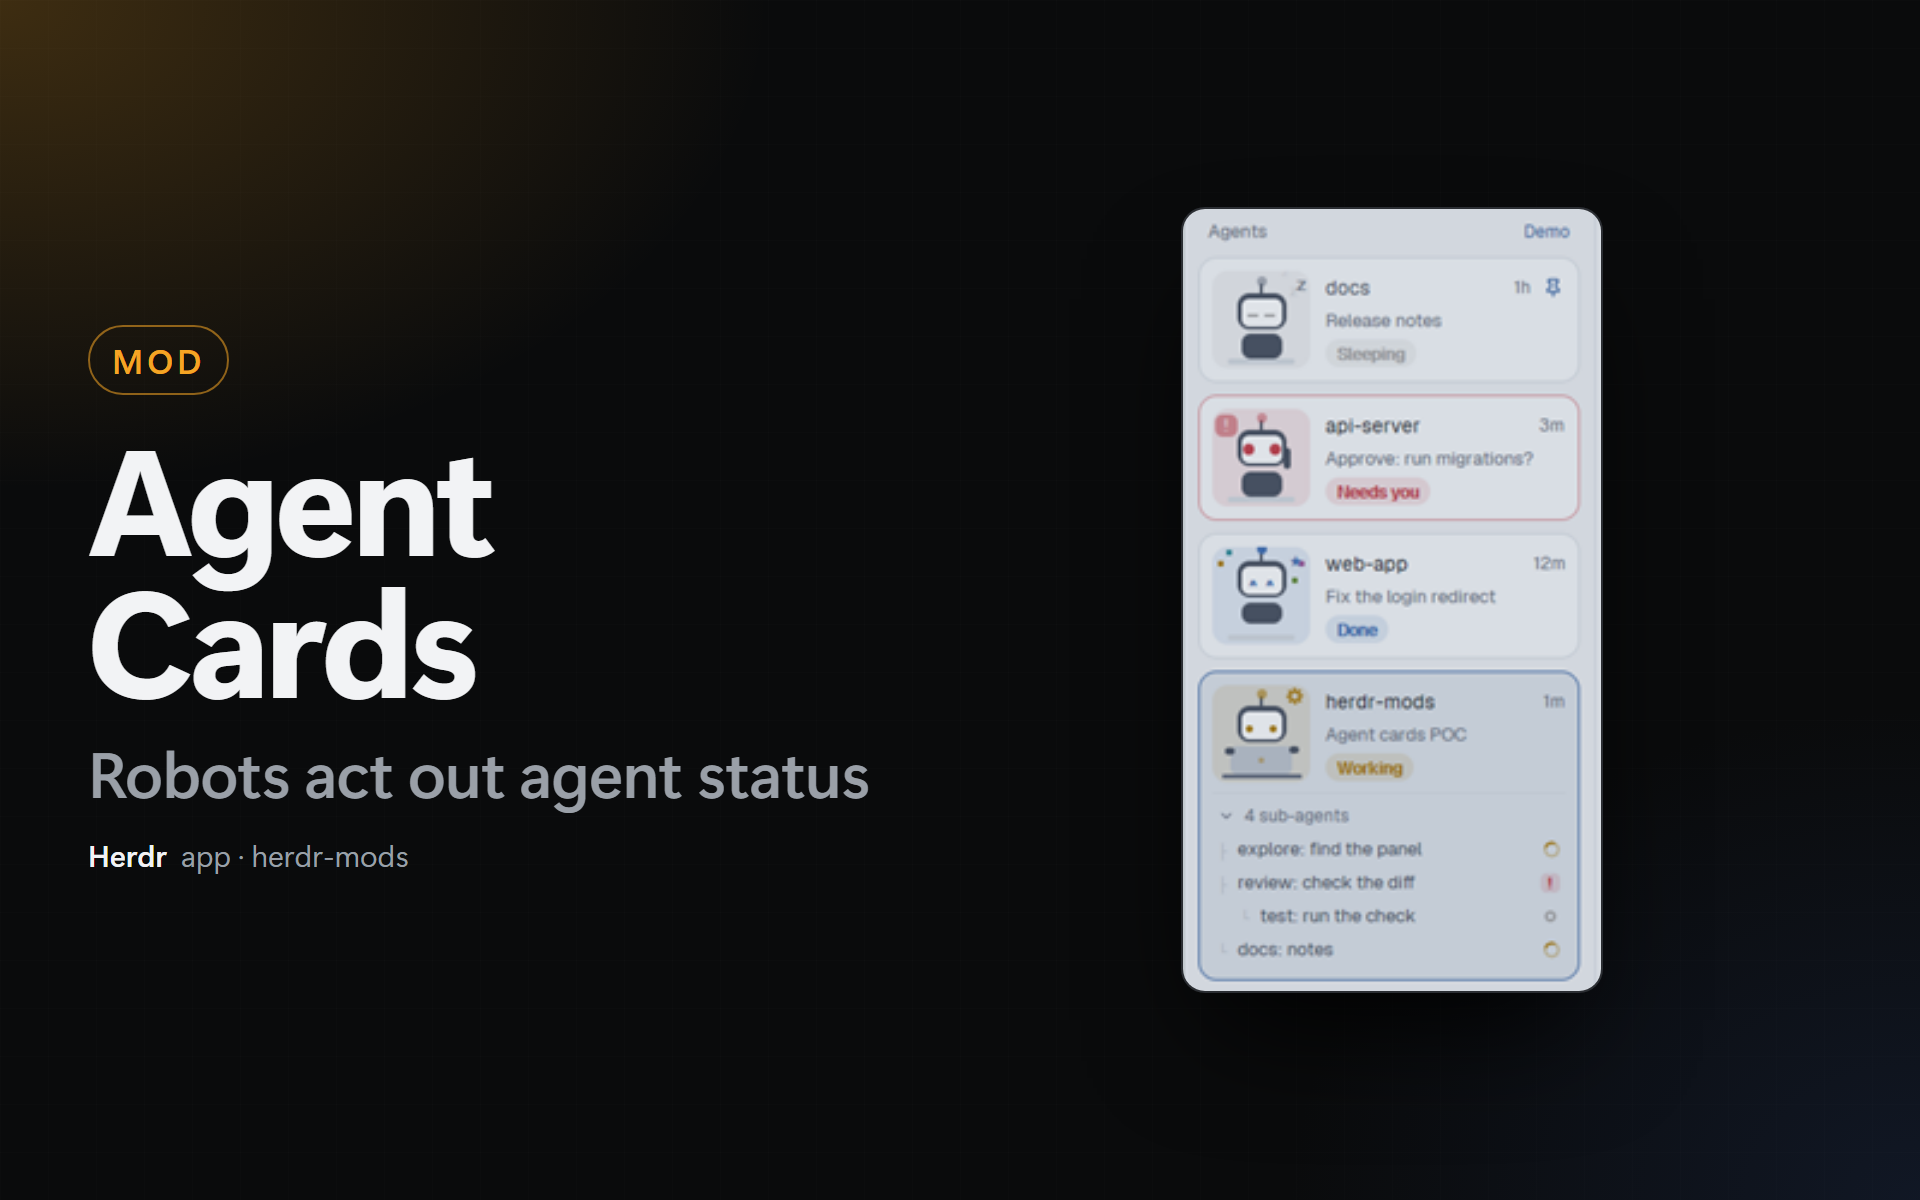
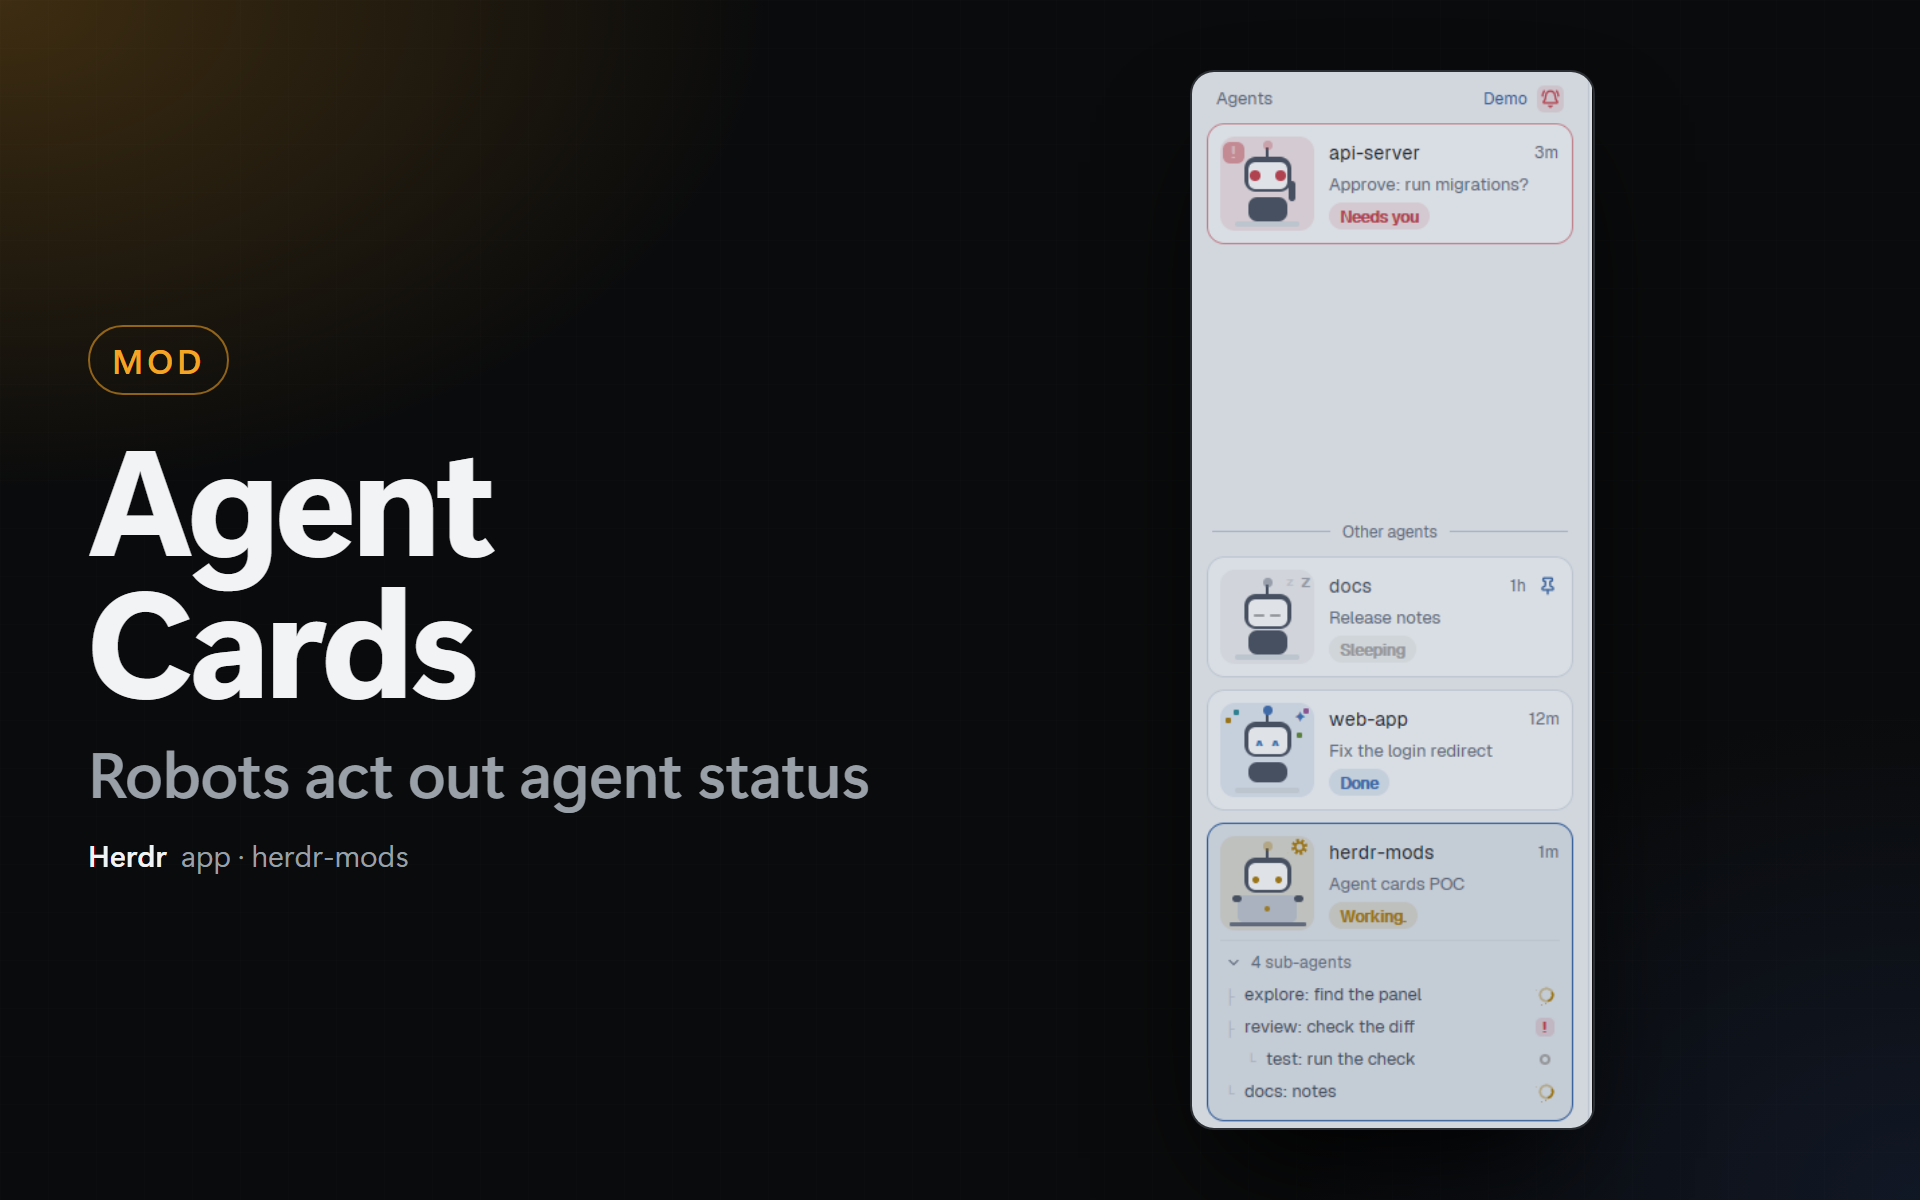
feat(agent-cards-app): add a Needs you first switch
A bell in the header of the agents list puts the agents that need you at
the top and the other cards at the bottom of the panel, under an
"Other agents" line. The switch is also a mods-hub setting.

Claude-Session: https://claude.ai/code/session_012VwvurNXmKdBMQdMKkYkgk

Changed region(s): [[0.5938, 0.0308, 0.8438, 0.9558]]

diff --git a/agent-cards-app/mods/agent-cards/main.js b/agent-cards-app/mods/agent-cards/main.js
@@ -4,8 +4,13 @@
 
 import { View, div, image, svg } from "gpui-kit";
 import { v_flex, h_flex } from "gpui-base";
-import { agents, terminals, panes, spaces, run, theme, layout, setAgentOrder, nextCommand } from "herdr";
+import { agents, terminals, panes, spaces, run, theme, layout, setAgentOrder, nextCommand, shared, setShared } from "herdr";
 import { stage } from "./robot.js";
+
+// The mods-hub setting "Needs you first": the agents that need you go to the top,
+// and the other cards go to the bottom of the panel, under a line.
+const KEY_NEEDS_YOU = "agent-cards.needsYouFirst";
+const needsYouFirst = () => shared(KEY_NEEDS_YOU) === true;
 
 function find(node, id) {
   if (node?.id === id) return node;
@@ -74,10 +79,12 @@ export default class AgentCards extends View {
     this.hovered = null;
     cx.timer.every(30000, (cx) => cx.notify());
     // `herdr-app do agent-cards.demo` shows one example card for each status.
+    // `agent-cards.needs-you` turns "Needs you first" on or off.
     cx.spawn(async (cx) => {
       for (;;) {
         const c = await nextCommand();
         if (c === "demo") this.demo = !this.demo;
+        if (c === "needs-you") setShared(KEY_NEEDS_YOU, !needsYouFirst());
         cx.notify();
       }
     });
@@ -100,6 +107,25 @@ export default class AgentCards extends View {
         : [];
       return { a, info: { name: space, detail: tab }, subs };
     }).sort((x, y) => (y.a.pinned ? 1 : 0) - (x.a.pinned ? 1 : 0));
+  }
+
+  // The header button that turns "Needs you first" on or off.
+  needsYouButton(t, on) {
+    return div()
+      .id("ac-needs-you")
+      .flex_none()
+      .p(3)
+      .rounded(5)
+      .text_color(on ? t.blocked : t.dim)
+      .when(on, (el) => el.bg(t.blocked + "22"))
+      .cursor_pointer()
+      .hover((s) => s.bg(t.hover).text_color(on ? t.blocked : t.foreground))
+      .tooltip(on ? "Needs you first: on. Click to turn off." : "Needs you first: off. Click to put the agents that need you at the top.")
+      .on_click((_e, cx) => {
+        setShared(KEY_NEEDS_YOU, !on);
+        cx.notify();
+      })
+      .child(svg("mods/agent-cards/needs-you.svg").size(13));
   }
 
   // Live sub-agents of `addr`, depth first.
@@ -276,7 +302,9 @@ export default class AgentCards extends View {
     // A card ranks by its most urgent status, its sub-agents included.
     const urgency = new Map(list.map((a) => [a.address, Math.max(RANK[a.status] ?? 0, ...subsOf.get(a.address).map((s) => RANK[s.status] ?? 0))]));
     const since = (a) => this.changed[a.address]?.at ?? 0;
-    list.sort((x, y) => (y.pinned ? 1 : 0) - (x.pinned ? 1 : 0) || urgency.get(y.address) - urgency.get(x.address) || since(y) - since(x) || y.seq - x.seq);
+    const first = needsYouFirst();
+    const top = (a) => (first && a.status === "blocked" ? 1 : 0);
+    list.sort((x, y) => top(y) - top(x) || (y.pinned ? 1 : 0) - (x.pinned ? 1 : 0) || urgency.get(y.address) - urgency.get(x.address) || since(y) - since(x) || y.seq - x.seq);
     setAgentOrder(list.map((a) => a.address));
 
     if (narrow()) {
@@ -293,6 +321,22 @@ export default class AgentCards extends View {
     };
     const busy = list.filter((a) => a.status !== "idle").length;
     const cards = this.demo ? this.demoCards(now) : list.map((a) => ({ a, info: infoOf(a), subs: subsOf.get(a.address) }));
+    const draw = (c) => this.card(t, c.a, c.info, now, c.subs);
+    // "Needs you first": the blocked cards at the top, a space that grows, a line,
+    // and the other cards at the bottom of the panel.
+    const body = !first ? cards.map(draw) : (() => {
+      const needs = cards.filter((c) => c.a.status === "blocked");
+      const rest = cards.filter((c) => c.a.status !== "blocked");
+      return [
+        ...needs.map(draw),
+        div().id("ac-spacer").flex_1(),
+        ...(needs.length && rest.length ? [h_flex().id("ac-divider").flex_none().mx(4).gap(8).items_center()
+          .child(div().flex_1().h(1).bg(t.input))
+          .child(div().flex_none().text_size(10.5).font_medium().text_color(t.dim).child("Other agents"))
+          .child(div().flex_1().h(1).bg(t.input))] : []),
+        ...rest.map(draw),
+      ];
+    })();
 
     return v_flex()
       .size_full()
@@ -303,11 +347,13 @@ export default class AgentCards extends View {
       .text_size(13)
       .child(h_flex().px(16).h(41).pt(14).pb(5).flex_none().items_center().justify_between()
         .child(div().text_size(11.5).font_medium().text_color(t.dim).child("Agents"))
-        .child(div().text_size(11).text_color(this.demo ? t.accent : t.dim)
-          .child(this.demo ? "Demo" : list.length ? `${busy} active · ${list.length}` : "")))
+        .child(h_flex().gap(6).items_center()
+          .child(div().text_size(11).text_color(this.demo ? t.accent : t.dim)
+            .child(this.demo ? "Demo" : list.length ? `${busy} active · ${list.length}` : ""))
+          .child(this.needsYouButton(t, first))))
       .when(cards.length === 0, (el) => el.child(div().px(16).text_size(12).text_color(t.dim)
         .child("No agents yet. Agents show up here when they report their status.")))
       .child(v_flex().id("ac-list").flex_1().min_h(0).px(10).pb(10).gap(8).overflow_y_scrollbar()
-        .children(cards.map((c) => this.card(t, c.a, c.info, now, c.subs))));
+        .children(body));
   }
 }

diff --git a/agent-cards-app/RECIPE.md b/agent-cards-app/RECIPE.md
@@ -6,7 +6,7 @@ A Herdr app mod (`agent-cards`) that draws the agents list of the sidebar as car
 
 ## What you see
 
-The head "Agents" (11.5px, `dim`) with "N active · M" on the right, then one card for each agent, 8px apart, 10px from the sides. A card is 12px radius, 8px padding, `surface` (`selected` when focused), 1px `border` (`accent` when focused, `blocked` at 60% when blocked). On its left, a 64px stage (10px radius, the status color at 12%) with a small robot made of `div`s: antenna with a bulb, a 32 x 24px head (`muted`, 8px radius), a `background` face plate and eyes in the status color, and a body. On its right: the agent's program icon (14px), the space name (medium), the time since the last status change (11px, `dim`); the tab name or the agent's title (11.5px, `dim`); a status pill (18px, the status color at 13%): `Working...` (the dots animate), `Sleeping`, `Needs you`, `Done`. An agent on another machine shows the machine name after the pill.
+The head "Agents" (11.5px, `dim`) with "N active · M" and the bell button on the right, then one card for each agent, 8px apart, 10px from the sides. A card is 12px radius, 8px padding, `surface` (`selected` when focused), 1px `border` (`accent` when focused, `blocked` at 60% when blocked). On its left, a 64px stage (10px radius, the status color at 12%) with a small robot made of `div`s: antenna with a bulb, a 32 x 24px head (`muted`, 8px radius), a `background` face plate and eyes in the status color, and a body. On its right: the agent's program icon (14px), the space name (medium), the time since the last status change (11px, `dim`); the tab name or the agent's title (11.5px, `dim`); a status pill (18px, the status color at 13%): `Working...` (the dots animate), `Sleeping`, `Needs you`, `Done`. An agent on another machine shows the machine name after the pill.
 
 ## How it behaves
 
@@ -15,13 +15,14 @@ The head "Agents" (11.5px, `dim`) with "N active · M" on the right, then one ca
 - **Pin.** With the pointer on a card, a pin button replaces the time; a pinned card always shows it in `accent`. A click runs `terminal.pin {terminal, pinned}`.
 - **Sub-agents.** A card with live sub-agents (`terminals()` with `parent`) shows, under a line, the head "N sub-agents" with a chevron, and one 22px row for each: `├` or `└` (14px more indent for each level), the program icon, the name, and a mark (a turning ring for working, `!` for blocked, a dot or a ring). A click on a row runs `terminal.peek`. A click on the head folds the rows; folded, it shows the mark of the most urgent one.
 - A sidebar narrower than 160px shows a rail: the number and a status dot of each agent.
+- **Needs you first.** `shared("agent-cards.needsYouFirst")` (`true` is on; absent is off), a `bool` in `kit.json`. The bell button of the head (`needs-you.svg`, the Lucide bell-ring, 13px; `blocked` on `blocked` at 13% when on, `dim` when off) flips it, and so does the command `agent-cards.needs-you`. On, the agents whose own status is `blocked` sort first (before pinned ones), and the list is: the blocked cards, a `flex_1` space, the line "Other agents" (a 1px `input` line on each side of 10.5px `dim` text, only when both parts have cards), and the other cards. So the other cards sit at the bottom of the panel and do not move when an agent becomes blocked. When the cards do not fit, the space is 0 and the list scrolls. `setAgentOrder` gets the same order.
 - **On and off.** The mods-hub setting **Agent cards** (`shared("agent-cards.enabled")`, `kit.json` of `agent-cards`; absent means on) chooses the mod of the `agents` block of `main-dock`. The Dock tab bar (`tabs-dock`) reads it and makes the change (see the [Dock recipe](../dock-app/RECIPE.md)). Off shows Herdr's own `agents` list.
 - `herdr-app do agent-cards.demo` shows one example card for each status, with sub-agents and a pin; the next run shows the real agents again.
 
 ## Built from
 
-- `mods/agent-cards/`, `mod.json` `{ "place": "none", "title": "Agent Cards" }`. `main.js` builds the list (`agents()`, `terminals()`, `panes()`, `spaces()`, `layout()`, `setAgentOrder`, `nextCommand`, `run`); the name and detail of a card come from the same rules as Herdr's `agents` mod (the tab name, or the agent's title when nobody named the tab). `robot.js` draws the stage: every part is an `absolute()` box in a `relative()` 64px square, and a moving part is a box whose `top` or `left` is a `loop`. `gear.svg` is the gear (a dashed circle). It uses `mods/workspace-chrome/spinner.svg`, `pin.svg`, `pin-off.svg`, `chevron-down.svg` and `chevron-right.svg`.
-- `kit.json` lists the **Agent cards** setting for the mods-hub.
+- `mods/agent-cards/`, `mod.json` `{ "place": "none", "title": "Agent Cards" }`. `main.js` builds the list (`agents()`, `terminals()`, `panes()`, `spaces()`, `layout()`, `setAgentOrder`, `nextCommand`, `run`); the name and detail of a card come from the same rules as Herdr's `agents` mod (the tab name, or the agent's title when nobody named the tab). `robot.js` draws the stage: every part is an `absolute()` box in a `relative()` 64px square, and a moving part is a box whose `top` or `left` is a `loop`. `gear.svg` is the gear (a dashed circle). `needs-you.svg` is the bell of the head ([Lucide](https://lucide.dev) bell-ring, ISC license). It uses `mods/workspace-chrome/spinner.svg`, `pin.svg`, `pin-off.svg`, `chevron-down.svg` and `chevron-right.svg`.
+- `kit.json` lists the **Agent cards** and **Needs you first** settings for the mods-hub.
 - Commands: `pane.focus`, `terminal.pin`, `terminal.peek`. No program, no file, no network.
 
 ## Watch out
@@ -35,4 +36,5 @@ The head "Agents" (11.5px, `dim`) with "N active · M" on the right, then one ca
 ## Done when
 
 - `herdr-app check ~/.config/herdr-app/mods/agent-cards` passes. `herdr-app do agent-cards.demo` shows 4 cards (Needs you, Done, Working, Sleeping), and `herdr-app shot` shows the robots.
+- With the demo on, `herdr-app do agent-cards.needs-you` moves the "Needs you" card to the top, and the line "Other agents" with the other 3 cards to the bottom. The next run shows the normal order again. Wait 2 s between 2 commands: a command sent at once after another one is lost.
 - With the Dock layout, `herdr-app do tabs-dock.agent-cards` changes the `agents` block of `layouts/main-dock.json` to `"mod": "agents"`, and the next run changes it back to `"mod": "agent-cards"`. The block's size stays.

diff --git a/agent-cards-app/README.md b/agent-cards-app/README.md
@@ -26,6 +26,7 @@ The [Dock](../dock-app) layout (`main-dock`) shows it in its `agents` block. Ins
 - Put the pointer on a card for the **pin** button. A pinned card stays at the top and shows the pin.
 - Sub-agents show under their card, one row each. Click a row to peek at the sub-agent. Click "N sub-agents" to fold them.
 - A narrow sidebar (the rail) shows a number and a status dot for each agent.
+- **Needs you first.** Click the bell in the header to put the agents that need you at the top. The other cards go to the bottom of the panel, under the line "Other agents", so they do not move when an agent asks for you. Click the bell again to turn it off. The same switch is in Herdr Mods → **Settings** → **Needs you first**, and `herdr-app do agent-cards.needs-you` flips it.
 - The animations run inside Herdr (no timer redraws the panel).
 
 To see all four robots at once, run `herdr-app do agent-cards.demo`. Run it again to show your agents.
@@ -43,6 +44,7 @@ To see all four robots at once, run `herdr-app do agent-cards.demo`. Run it agai
 
 ## Limits
 
-- Checked with `herdr-app check` and with screenshots of the four statuses (`agent-cards.demo`), the sub-agents and the pin. A click on the pin and on a sub-agent row was not tested in a real session.
+- Checked with `herdr-app check` and with screenshots of the four statuses (`agent-cards.demo`), the sub-agents, the pin and **Needs you first**. A click on the pin, on a sub-agent row and on the bell was not tested in a real session.
+- **Needs you first** looks only at the status of the agent. An agent whose sub-agent needs you stays in the lower part.
 - Tested only in the `main-dock` layout, on Windows. Untested: macOS, Linux, a remote machine's window, other layouts.
 - `RECIPE.md` has the full brief to build it from scratch.

diff --git a/whats-new/14.md b/whats-new/14.md
@@ -1,0 +1,2 @@
+- **agent-cards:** a new **Needs you first** switch. Click the bell in the header of the agents list: the agents that need you go to the top, and the other cards go to the bottom of the panel, under the line "Other agents". The other cards do not move when an agent asks for you. Click the bell again to turn it off.
+- **agent-cards:** the same switch is in Herdr Mods → **Settings** → **Needs you first**. It is off by default. `herdr-app do agent-cards.needs-you` flips it.

diff --git a/SETUP-PROMPT.md b/SETUP-PROMPT.md
@@ -1,4 +1,4 @@
-<!-- herdr-mods-setup-version: 13 -->
+<!-- herdr-mods-setup-version: 14 -->
 # Set up or update my Herdr mods
 
 The first line of this file holds the version of the prompt. The `mods-hub`
